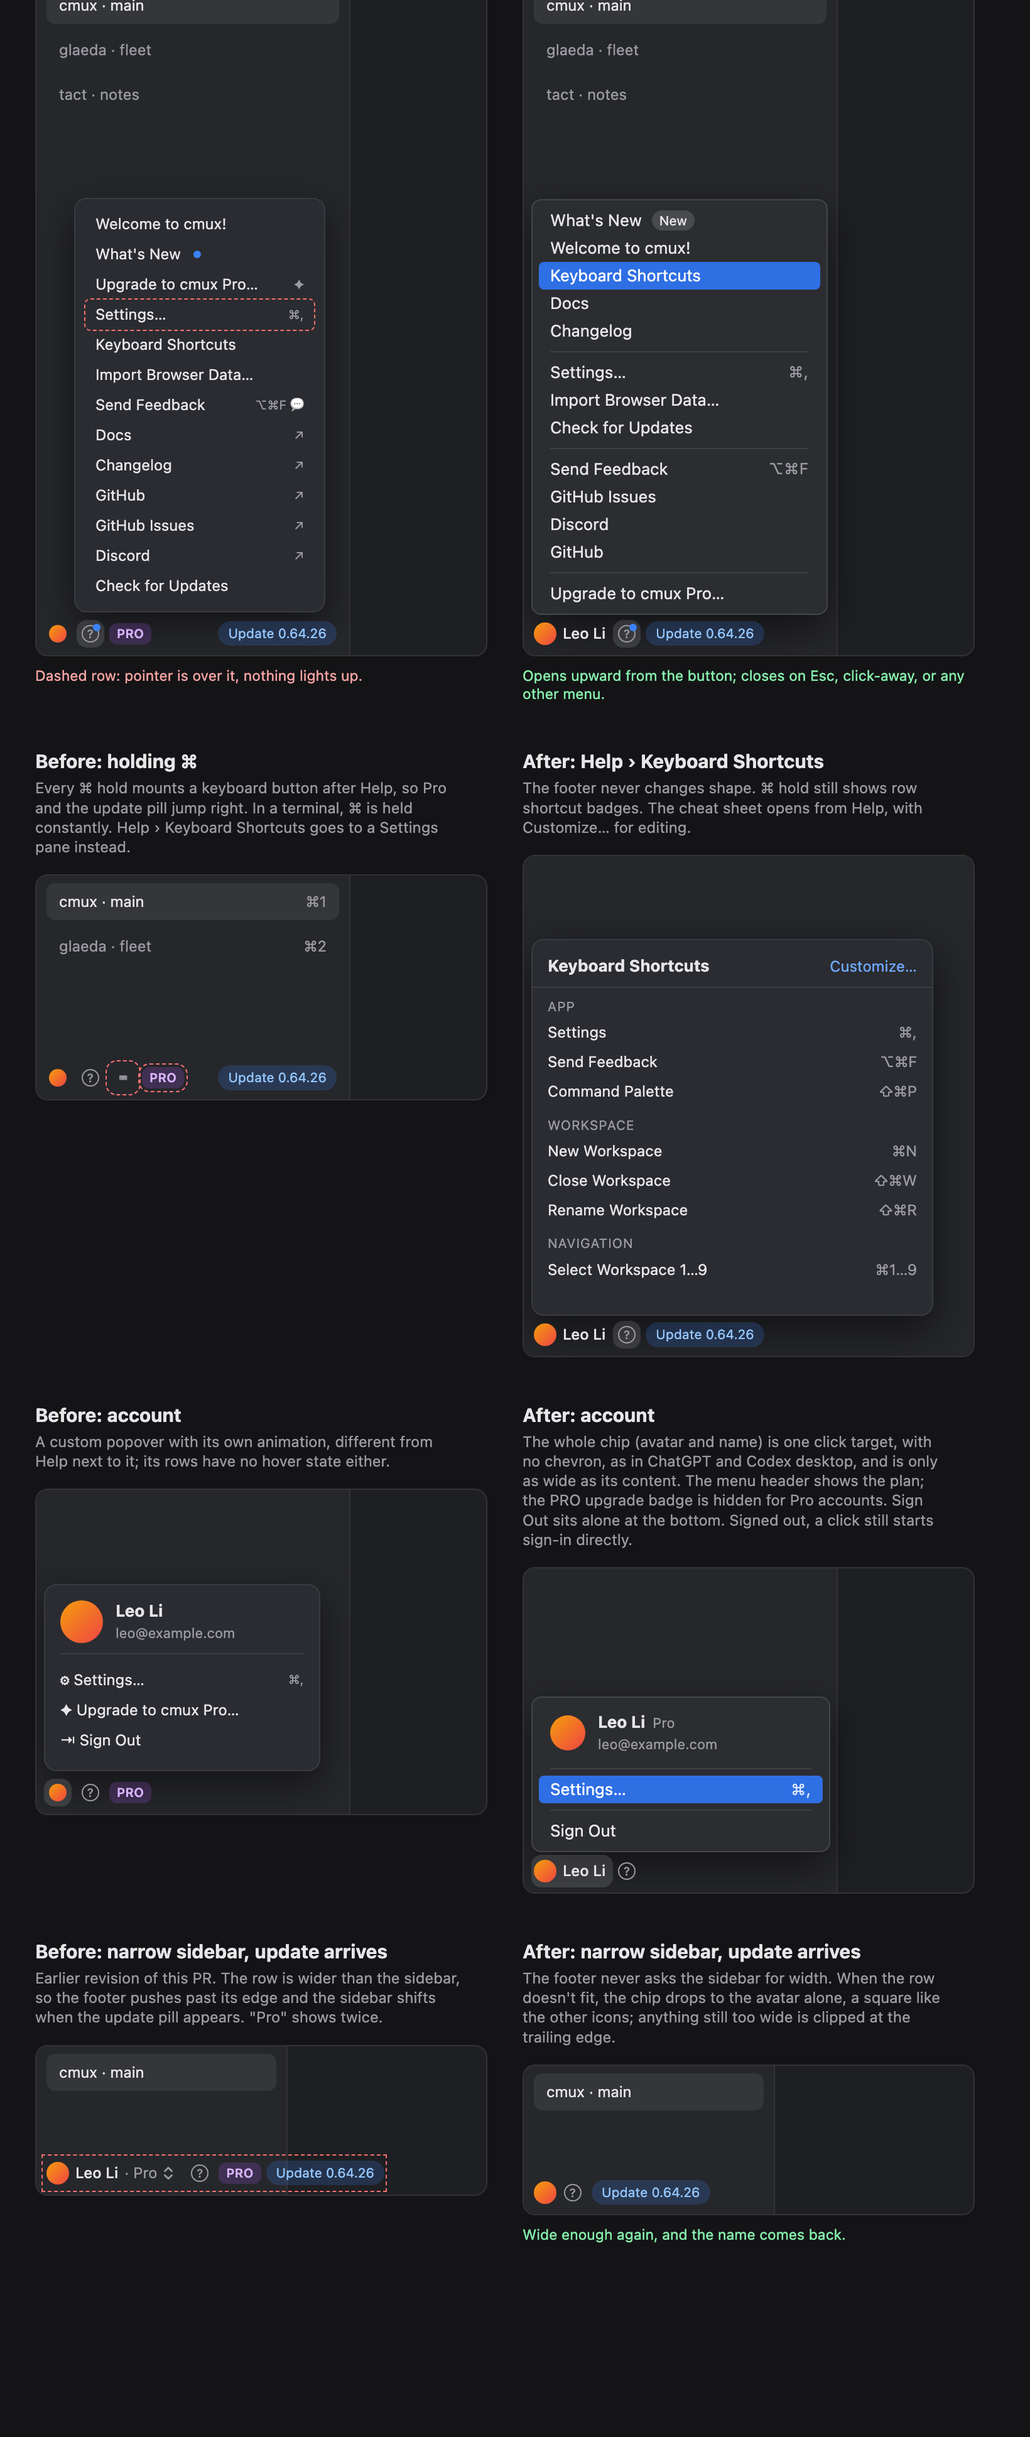
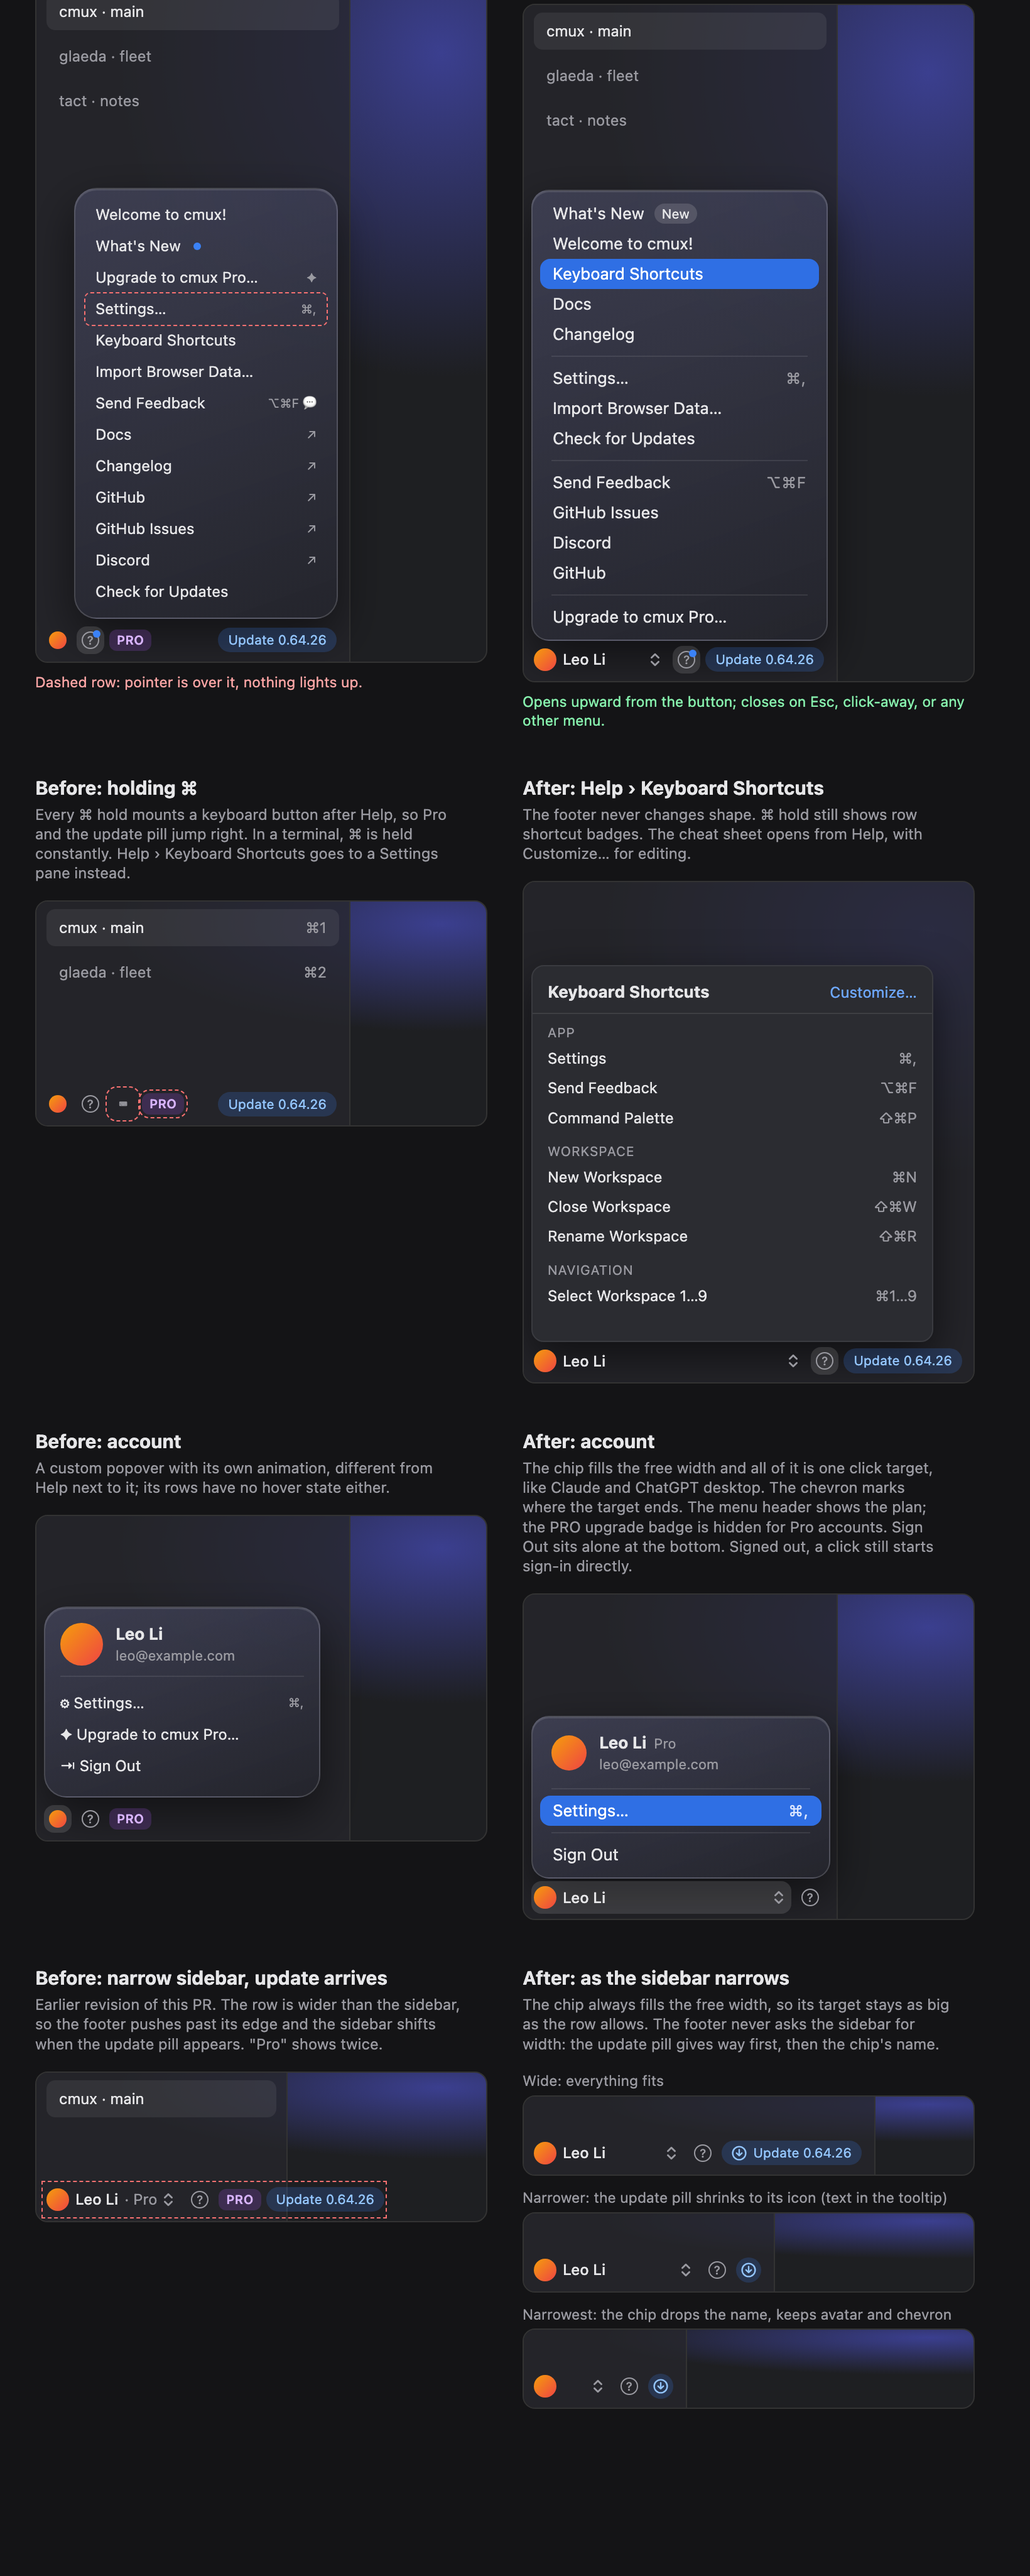
Mockup: full-width chip, glass menus, narrowing sequence

diff --git a/footer.html b/footer.html
@@ -8,8 +8,8 @@ h2{font-size:15px;margin:0 0 4px}
 .cap{color:var(--sec);font-size:12px;margin:0 0 14px;max-width:340px}
 .row{display:flex;gap:28px;align-items:flex-start}
 .col{width:360px}
-.win{position:relative;width:360px;height:540px;background:var(--bg);border-radius:10px;overflow:hidden;border:1px solid #333}
-.sidebar{position:absolute;left:0;top:0;bottom:0;width:250px;background:var(--side);border-right:1px solid #333}
+.win{position:relative;width:360px;height:540px;background:radial-gradient(120% 80% at 90% 10%,#3b3f8f 0,#1e1f22 60%);border-radius:10px;overflow:hidden;border:1px solid #333}
+.sidebar{position:absolute;left:0;top:0;bottom:0;width:250px;background:rgba(38,39,43,.78);border-right:1px solid #333}
 .ws{margin:6px 8px;padding:7px 10px;border-radius:7px;color:var(--sec);font-size:12px}
 .ws.sel{background:rgba(255,255,255,.07);color:var(--text)}
 .footer{position:absolute;left:6px;right:10px;bottom:6px;height:22px;display:flex;align-items:center;gap:4px}
@@ -23,13 +23,13 @@ h2{font-size:15px;margin:0 0 4px}
 .kb{font-size:11px}
 .shift{outline:1px dashed #f87171;outline-offset:2px;border-radius:6px}
 /* old popover */
-.pop{position:absolute;left:30px;bottom:34px;width:200px;background:#2b2c31;border:1px solid #3a3b40;border-radius:10px;padding:8px;box-shadow:0 10px 30px rgba(0,0,0,.5)}
-.pop .it{height:24px;display:flex;align-items:center;padding:0 8px;font-size:12px;gap:8px}
+.pop{position:absolute;left:30px;bottom:34px;width:210px;background:linear-gradient(160deg,rgba(80,82,110,.55),rgba(36,37,44,.78));border:1px solid rgba(255,255,255,.16);border-radius:18px;padding:8px;box-shadow:0 14px 36px rgba(0,0,0,.5),inset 0 1px 0 rgba(255,255,255,.12);backdrop-filter:blur(24px) saturate(1.6)}
+.pop .it{height:25px;display:flex;align-items:center;padding:0 8px;font-size:12px;gap:8px}
 .pop .it .r{margin-left:auto;color:var(--sec);font-size:10px}
 .pop .it.hover{outline:1px dashed #f87171;border-radius:4px}
 /* native menu */
-.menu{position:absolute;left:6px;bottom:32px;min-width:236px;background:var(--menu);border:1px solid rgba(255,255,255,.12);border-radius:8px;padding:5px;box-shadow:0 12px 34px rgba(0,0,0,.55);backdrop-filter:blur(20px)}
-.menu .it{height:22px;display:flex;align-items:center;padding:0 9px;border-radius:4px;font-size:13px}
+.menu{position:absolute;left:6px;bottom:32px;min-width:236px;background:linear-gradient(160deg,rgba(80,82,110,.55),rgba(36,37,44,.8));border:1px solid rgba(255,255,255,.16);border-radius:14px;padding:6px;box-shadow:0 14px 36px rgba(0,0,0,.55),inset 0 1px 0 rgba(255,255,255,.12);backdrop-filter:blur(24px) saturate(1.6)}
+.menu .it{height:24px;display:flex;align-items:center;padding:0 10px;border-radius:8px;font-size:13px}
 .menu .it .k{margin-left:auto;color:var(--sec);font-size:12.5px;letter-spacing:.5px;padding-left:24px}
 .menu .it.hl{background:var(--hl);color:#fff}.menu .it.hl .k{color:#dbe6ff}
 .menu .sep{height:1px;background:var(--sep);margin:5px 9px}
@@ -44,14 +44,15 @@ h2{font-size:15px;margin:0 0 4px}
 .sheet .r{display:flex;padding:4px 12px;font-size:12px}.sheet .r span{margin-left:auto;color:var(--sec)}
 .note{font-size:11.5px;color:#fca5a5;margin-top:8px}
 .good{font-size:11.5px;color:#86efac;margin-top:8px}
-.chip{flex:none;height:26px;display:flex;align-items:center;gap:5px;padding:0 6px 0 2px;border-radius:8px}
-.chip.sq{padding:0 2px;height:22px}
+.chip{flex:1;min-width:0;height:26px;display:flex;align-items:center;gap:5px;padding:0 6px 0 2px;border-radius:8px}
 .grp{display:flex;align-items:center;gap:0}
 .chip.on{background:rgba(255,255,255,.12)}
 .chip .av{width:18px;height:18px;flex:none}
 .chip .n{font-size:12px;font-weight:500;white-space:nowrap;overflow:hidden;text-overflow:ellipsis;max-width:140px}
 .chip .p{font-size:12px;color:var(--sec);white-space:nowrap}
-.chip .cv{color:var(--sec);flex:none}
+.chip .cv{color:var(--sec);flex:none;margin-left:auto}
+.pill{display:inline-flex;align-items:center;gap:5px}
+.pill.ic{padding:4px}
 .over{outline:1px dashed #f87171;outline-offset:1px}
 .hdr .pl{font-size:11px;color:var(--sec);font-weight:400;margin-left:6px}
 .footer.after{height:26px;bottom:4px}
@@ -60,7 +61,7 @@ h2{font-size:15px;margin:0 0 4px}
 <div id="help" class="row">
  <div class="col">
   <h2>Before: Help</h2>
-  <p class="cap">Custom popover, 12 flat rows. Rows have no hover highlight and no arrow-key navigation. Settings and the Pro upsell sit between people and help.</p>
+  <p class="cap">Popover (glass on macOS 26), 12 flat rows. Rows have no hover highlight and no arrow-key navigation. Settings and the Pro upsell sit between people and help.</p>
   <div class="win"><div class="sidebar">
    <div class="ws sel">cmux · main</div><div class="ws">glaeda · fleet</div><div class="ws">tact · notes</div>
    <div class="pop">
@@ -84,7 +85,7 @@ h2{font-size:15px;margin:0 0 4px}
  </div>
  <div class="col">
   <h2>After: Help</h2>
-  <p class="cap">Native NSMenu in four groups: learn, app, feedback and community, Pro last. Highlight, arrow keys, type-select, press-drag-release, configured shortcuts.</p>
+  <p class="cap">Native NSMenu (glass on macOS 26) in four groups: learn, app, feedback and community, Pro last. Highlight, arrow keys, type-select, press-drag-release, configured shortcuts.</p>
   <div class="win"><div class="sidebar">
    <div class="ws sel">cmux · main</div><div class="ws">glaeda · fleet</div><div class="ws">tact · notes</div>
    <div class="menu">
@@ -105,7 +106,7 @@ h2{font-size:15px;margin:0 0 4px}
     <div class="sep"></div>
     <div class="it">Upgrade to cmux Pro…</div>
    </div>
-   <div class="footer after"><div class="grp"><div class="chip"><div class="av"></div><span class="n">Leo Li</span></div><div class="ib on"><div class="q">?</div><div class="dot"></div></div></div><span class="pill">Update 0.64.26</span></div>
+   <div class="footer after"><div class="chip"><div class="av"></div><span class="n">Leo Li</span><svg class="cv" width="8" height="12" viewBox="0 0 8 12"><path d="M1.2 4.4 4 1.6l2.8 2.8M1.2 7.6 4 10.4l2.8-2.8" fill="none" stroke="currentColor" stroke-width="1.4" stroke-linecap="round" stroke-linejoin="round"/></svg></div><div class="grp"><div class="ib on"><div class="q">?</div><div class="dot"></div></div></div><span class="pill">Update 0.64.26</span></div>
   </div></div>
   <div class="good">Opens upward from the button; closes on Esc, click-away, or any other menu.</div>
  </div>
@@ -133,7 +134,7 @@ h2{font-size:15px;margin:0 0 4px}
     <div class="sh">Navigation</div>
     <div class="r">Select Workspace 1…9<span>⌘1…9</span></div>
    </div>
-   <div class="footer after"><div class="grp"><div class="chip"><div class="av"></div><span class="n">Leo Li</span></div><div class="ib on"><div class="q">?</div></div></div><span class="pill">Update 0.64.26</span></div>
+   <div class="footer after"><div class="chip"><div class="av"></div><span class="n">Leo Li</span><svg class="cv" width="8" height="12" viewBox="0 0 8 12"><path d="M1.2 4.4 4 1.6l2.8 2.8M1.2 7.6 4 10.4l2.8-2.8" fill="none" stroke="currentColor" stroke-width="1.4" stroke-linecap="round" stroke-linejoin="round"/></svg></div><div class="grp"><div class="ib on"><div class="q">?</div></div></div><span class="pill">Update 0.64.26</span></div>
   </div></div>
  </div>
 </div>
@@ -155,7 +156,7 @@ h2{font-size:15px;margin:0 0 4px}
  </div>
  <div class="col">
   <h2>After: account</h2>
-  <p class="cap">The whole chip (avatar and name) is one click target, with no chevron, as in ChatGPT and Codex desktop, and is only as wide as its content. The menu header shows the plan; the PRO upgrade badge is hidden for Pro accounts. Sign Out sits alone at the bottom. Signed out, a click still starts sign-in directly.</p>
+  <p class="cap">The chip fills the free width and all of it is one click target, like Claude and ChatGPT desktop. The chevron marks where the target ends. The menu header shows the plan; the PRO upgrade badge is hidden for Pro accounts. Sign Out sits alone at the bottom. Signed out, a click still starts sign-in directly.</p>
   <div class="win" style="height:260px"><div class="sidebar">
    <div class="menu" style="min-width:238px">
     <div class="hdr"><div class="av"></div><div><b>Leo Li<span class="pl">Pro</span></b><span>leo@example.com</span></div></div>
@@ -164,7 +165,7 @@ h2{font-size:15px;margin:0 0 4px}
     <div class="sep"></div>
     <div class="it">Sign Out</div>
    </div>
-   <div class="footer after"><div class="grp"><div class="chip on"><div class="av"></div><span class="n">Leo Li</span></div><div class="ib"><div class="q">?</div></div></div></div>
+   <div class="footer after"><div class="chip on"><div class="av"></div><span class="n">Leo Li</span><svg class="cv" width="8" height="12" viewBox="0 0 8 12"><path d="M1.2 4.4 4 1.6l2.8 2.8M1.2 7.6 4 10.4l2.8-2.8" fill="none" stroke="currentColor" stroke-width="1.4" stroke-linecap="round" stroke-linejoin="round"/></svg></div><div class="grp"><div class="ib"><div class="q">?</div></div></div></div>
   </div></div>
  </div>
 </div>
@@ -179,13 +180,21 @@ h2{font-size:15px;margin:0 0 4px}
   </div></div>
  </div>
  <div class="col">
-  <h2>After: narrow sidebar, update arrives</h2>
-  <p class="cap">The footer never asks the sidebar for width. When the row doesn't fit, the chip drops to the avatar alone, a square like the other icons; anything still too wide is clipped at the trailing edge.</p>
-  <div class="win" style="height:120px"><div class="sidebar" style="width:200px">
-   <div class="ws sel">cmux · main</div>
-   <div class="footer after" style="overflow:hidden"><div class="grp"><div class="chip sq"><div class="av"></div></div><div class="ib"><div class="q">?</div></div></div><span class="pill">Update 0.64.26</span></div>
+  <h2>After: as the sidebar narrows</h2>
+  <p class="cap">The chip always fills the free width, so its target stays as big as the row allows. The footer never asks the sidebar for width: the update pill gives way first, then the chip's name.</p>
+  <div style="font-size:11.5px;color:var(--sec);margin:10px 0 4px">Wide: everything fits</div>
+  <div class="win" style="height:64px"><div class="sidebar" style="width:280px">
+   <div class="footer after" style="overflow:hidden"><div class="chip"><div class="av"></div><span class="n">Leo Li</span><svg class="cv" width="8" height="12" viewBox="0 0 8 12"><path d="M1.2 4.4 4 1.6l2.8 2.8M1.2 7.6 4 10.4l2.8-2.8" fill="none" stroke="currentColor" stroke-width="1.4" stroke-linecap="round" stroke-linejoin="round"/></svg></div><div class="grp"><div class="ib"><div class="q">?</div></div></div><span class="pill"><svg width="12" height="12" viewBox="0 0 12 12"><circle cx="6" cy="6" r="5.2" fill="none" stroke="currentColor" stroke-width="1.2"/><path d="M6 3.2v4.6M3.9 5.9 6 8l2.1-2.1" fill="none" stroke="currentColor" stroke-width="1.2" stroke-linecap="round" stroke-linejoin="round"/></svg>Update 0.64.26</span></div>
   </div></div>
-  <div class="good">Wide enough again, and the name comes back.</div>
+  <div style="font-size:11.5px;color:var(--sec);margin:10px 0 4px">Narrower: the update pill shrinks to its icon (text in the tooltip)</div>
+  <div class="win" style="height:64px"><div class="sidebar" style="width:200px">
+   <div class="footer after" style="overflow:hidden"><div class="chip"><div class="av"></div><span class="n">Leo Li</span><svg class="cv" width="8" height="12" viewBox="0 0 8 12"><path d="M1.2 4.4 4 1.6l2.8 2.8M1.2 7.6 4 10.4l2.8-2.8" fill="none" stroke="currentColor" stroke-width="1.4" stroke-linecap="round" stroke-linejoin="round"/></svg></div><div class="grp"><div class="ib"><div class="q">?</div></div></div><span class="pill ic" title="Update 0.64.26"><svg width="12" height="12" viewBox="0 0 12 12"><circle cx="6" cy="6" r="5.2" fill="none" stroke="currentColor" stroke-width="1.2"/><path d="M6 3.2v4.6M3.9 5.9 6 8l2.1-2.1" fill="none" stroke="currentColor" stroke-width="1.2" stroke-linecap="round" stroke-linejoin="round"/></svg></span></div>
+  </div></div>
+  <div style="font-size:11.5px;color:var(--sec);margin:10px 0 4px">Narrowest: the chip drops the name, keeps avatar and chevron</div>
+  <div class="win" style="height:64px"><div class="sidebar" style="width:130px">
+   <div class="footer after" style="overflow:hidden"><div class="chip"><div class="av"></div><svg class="cv" width="8" height="12" viewBox="0 0 8 12"><path d="M1.2 4.4 4 1.6l2.8 2.8M1.2 7.6 4 10.4l2.8-2.8" fill="none" stroke="currentColor" stroke-width="1.4" stroke-linecap="round" stroke-linejoin="round"/></svg></div><div class="grp"><div class="ib"><div class="q">?</div></div></div><span class="pill ic"><svg width="12" height="12" viewBox="0 0 12 12"><circle cx="6" cy="6" r="5.2" fill="none" stroke="currentColor" stroke-width="1.2"/><path d="M6 3.2v4.6M3.9 5.9 6 8l2.1-2.1" fill="none" stroke="currentColor" stroke-width="1.2" stroke-linecap="round" stroke-linejoin="round"/></svg></span></div>
+  </div></div>
+
  </div>
 </div>
 </body></html>
